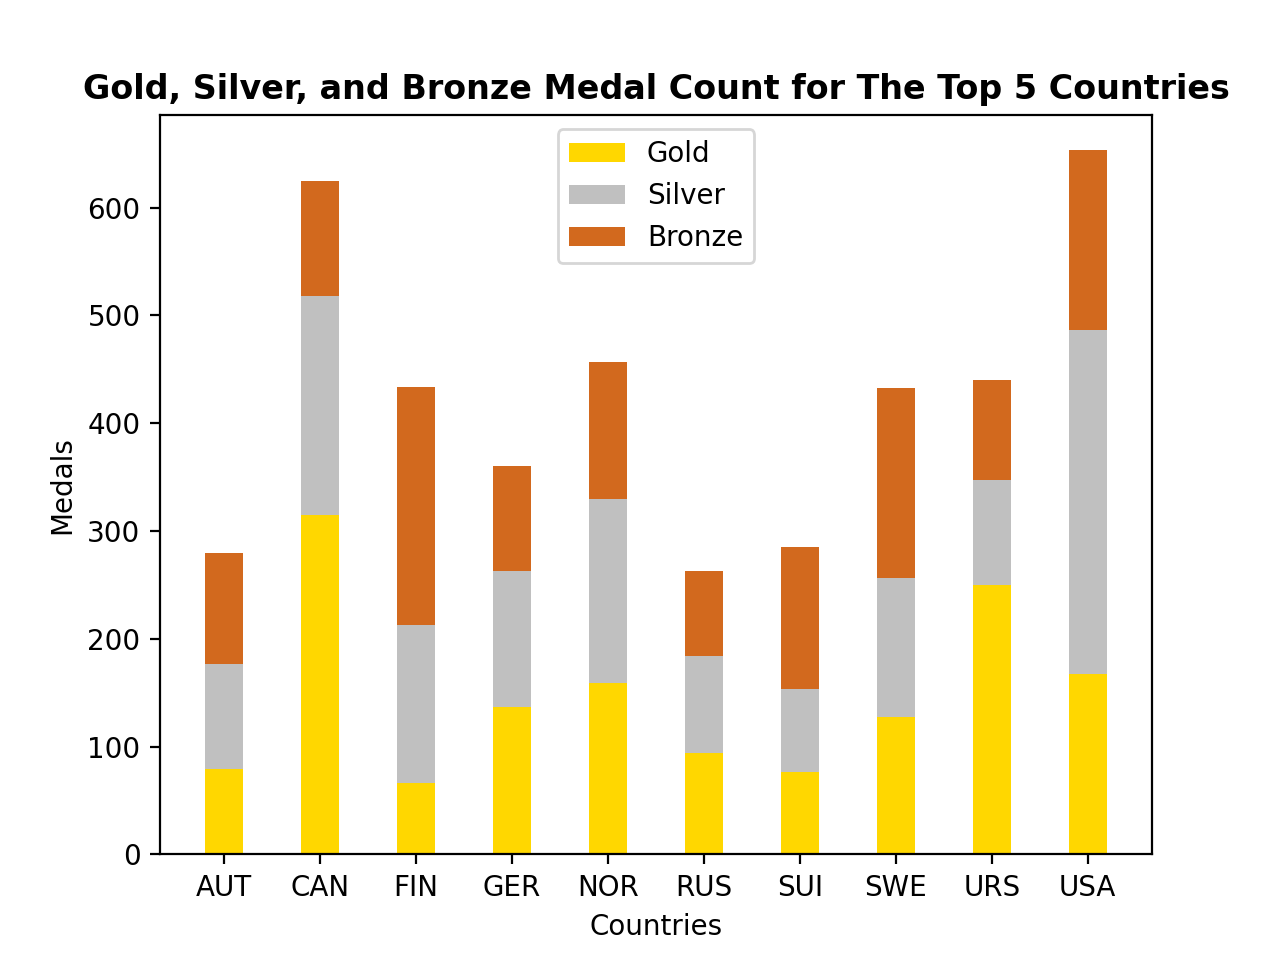
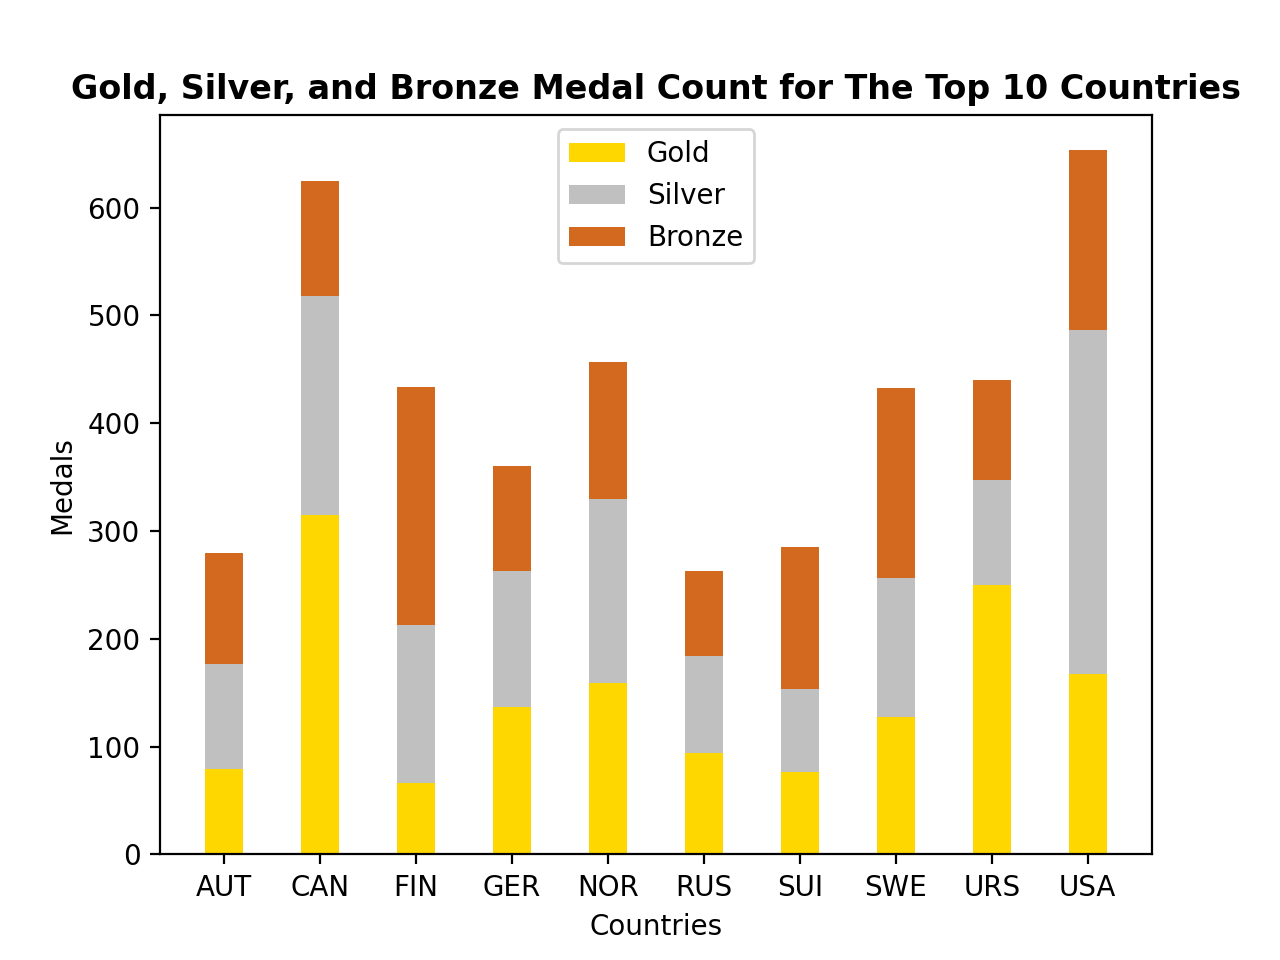
updateT10Image

Changed region(s): [[0.0625, 0.0625, 0.9688, 0.125]]

diff --git a/data/bar.py b/data/bar.py
@@ -14,6 +14,6 @@ plt.bar(x, bronze, 0.4, bottom = b_bronze, label = "Bronze", color="chocolate")
 
 plt.ylabel("Medals")
 plt.xlabel("Countries")
-plt.title("Gold, Silver, and Bronze Medal Count for The Top 5 Countries", fontweight= 'bold')
+plt.title("Gold, Silver, and Bronze Medal Count for The Top 10 Countries", fontweight= 'bold')
 plt.legend()
 plt.show()
